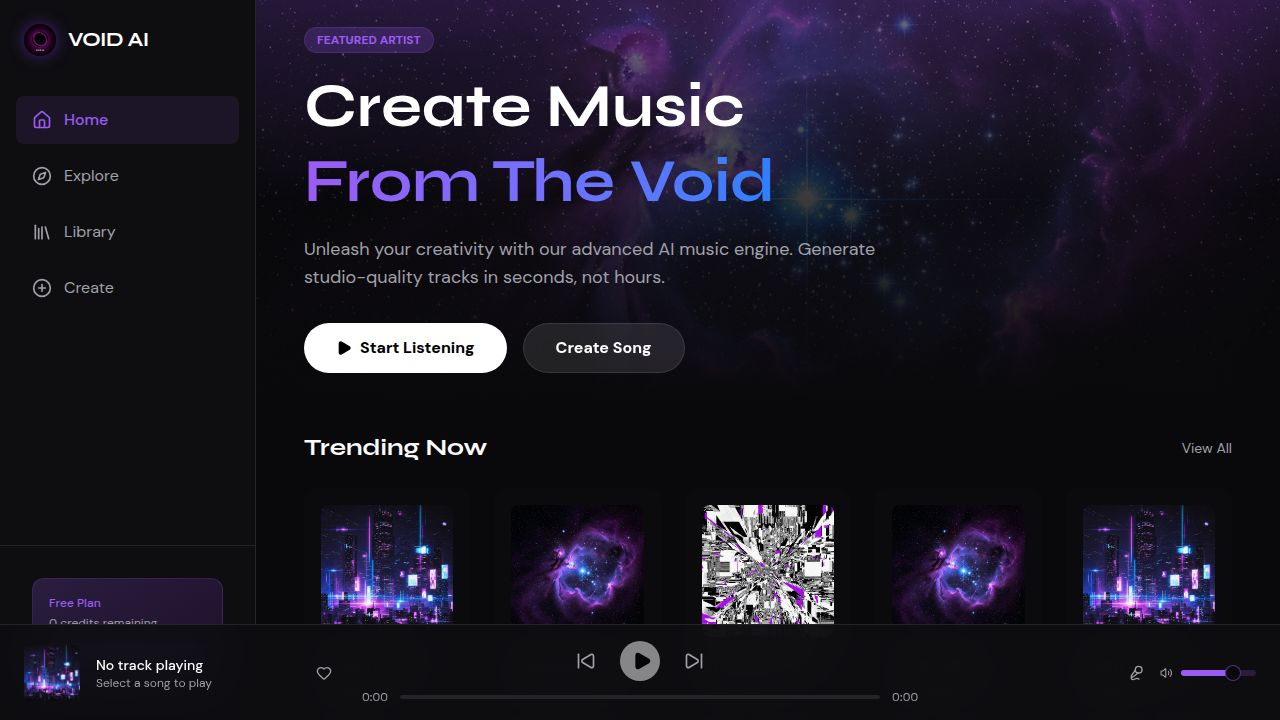
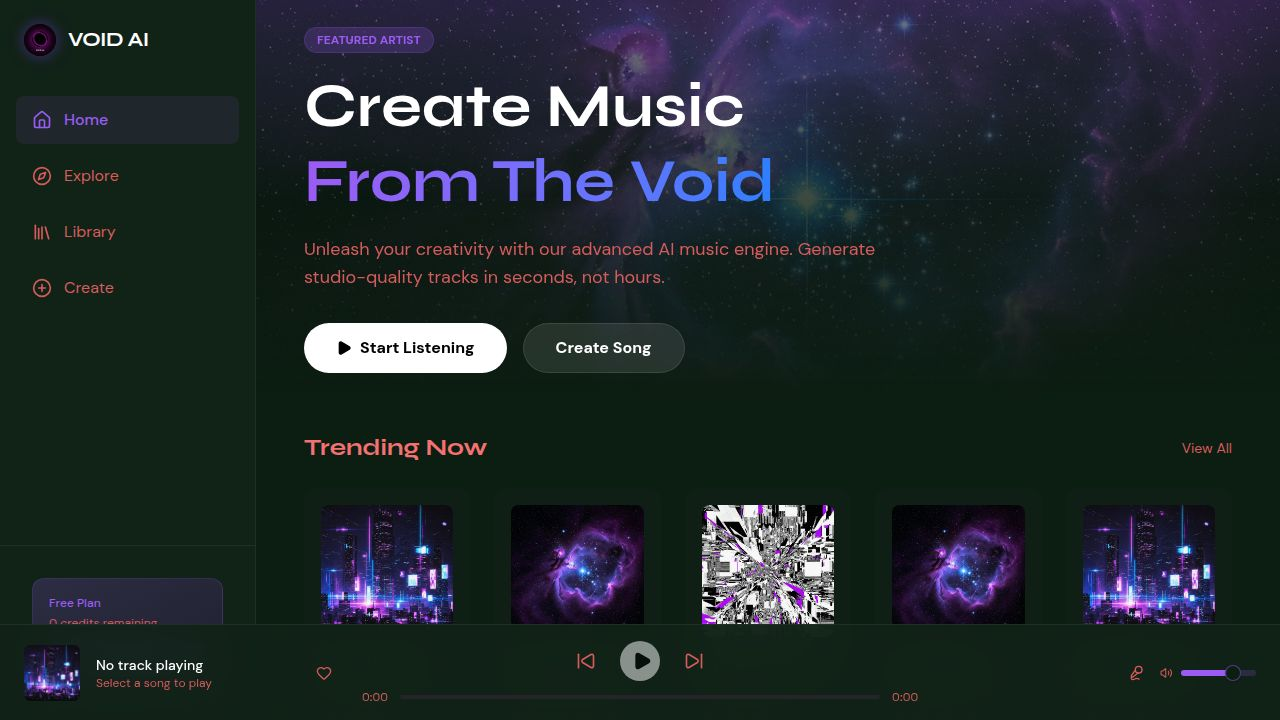
Add St. Patrick's Day theme and effects to the application
Integrate St. Patrick's Day into holiday detection, CSS themes, and visual effects components.

Replit-Commit-Author: Agent
Replit-Commit-Session-Id: c69f2398-1bec-43cf-9da7-62e4a30b7d91
Replit-Commit-Checkpoint-Type: full_checkpoint
Replit-Commit-Event-Id: 72ba4809-cc43-4bad-bf98-c645ed1acec9
Replit-Commit-Screenshot-Url: https://storage.googleapis.com/screenshot-production-us-central1/15c742c1-d4f1-4c3e-99b2-ad78ace85bf2/c69f2398-1bec-43cf-9da7-62e4a30b7d91/RBBvOAD
Replit-Helium-Checkpoint-Created: true

diff --git a/client/src/lib/holidays.ts b/client/src/lib/holidays.ts
@@ -1,4 +1,4 @@
-export type Holiday = 'christmas' | 'halloween' | 'thanksgiving' | 'valentines' | 'newyear' | 'july4th' | null;
+export type Holiday = 'christmas' | 'halloween' | 'thanksgiving' | 'valentines' | 'newyear' | 'july4th' | 'stpatricks' | null;
 
 function getThanksgivingDate(year: number): number {
   // Thanksgiving is the 4th Thursday of November
@@ -22,6 +22,11 @@ export function detectHoliday(): Holiday {
   // Valentine's Day: February 12 - 15
   if (month === 1 && day >= 12 && day <= 15) {
     return 'valentines';
+  }
+
+  // St. Patrick's Day: March 15 - 18
+  if (month === 2 && day >= 15 && day <= 18) {
+    return 'stpatricks';
   }
 
   // 4th of July: July 2 - 5
@@ -84,5 +89,11 @@ export const holidayThemes = {
     text: 'text-red-400',
     accent: 'text-white',
     border: 'border-blue-900/50',
+  },
+  stpatricks: {
+    background: 'bg-green-950',
+    text: 'text-green-400',
+    accent: 'text-green-500',
+    border: 'border-green-900/50',
   },
 } as const;

diff --git a/client/src/components/HolidayEffects.tsx b/client/src/components/HolidayEffects.tsx
@@ -16,6 +16,7 @@ const HOLIDAY_EMOJIS: Record<Exclude<Holiday, null>, string> = {
   valentines: '💕',
   newyear: '✨',
   july4th: '🎆',
+  stpatricks: '☘',
 };
 
 const HOLIDAY_OPACITY: Record<Exclude<Holiday, null>, string> = {
@@ -25,6 +26,7 @@ const HOLIDAY_OPACITY: Record<Exclude<Holiday, null>, string> = {
   valentines: 'text-pink-400/40',
   newyear: 'text-yellow-400/40',
   july4th: 'text-white/30',
+  stpatricks: 'text-green-400/40',
 };
 
 function FallingParticle({ particle, holiday }: { particle: Particle; holiday: Exclude<Holiday, null> }) {

diff --git a/client/src/index.css b/client/src/index.css
@@ -174,6 +174,19 @@
   --input: 220 40% 20%;
 }
 
+/* Holiday Theme - St. Patrick's Day */
+:root.holiday-stpatricks {
+  --background: 140 50% 8%;
+  --foreground: 140 70% 50%;
+  --card: 140 45% 12%;
+  --card-foreground: 140 65% 55%;
+  --popover: 140 45% 12%;
+  --popover-foreground: 140 65% 55%;
+  --muted-foreground: 140 50% 45%;
+  --border: 140 40% 18%;
+  --input: 140 40% 18%;
+}
+
 /* Preserve original icon colors in Admin panel during holidays */
 :root[class*="holiday-"] [data-testid^="tab-"] svg,
 :root[class*="holiday-"] [data-testid^="button-"] svg,

diff --git a/client/src/App.tsx b/client/src/App.tsx
@@ -52,7 +52,8 @@ function App() {
         'holiday-thanksgiving',
         'holiday-valentines',
         'holiday-newyear',
-        'holiday-july4th'
+        'holiday-july4th',
+        'holiday-stpatricks'
       );
     };
   }, []);
